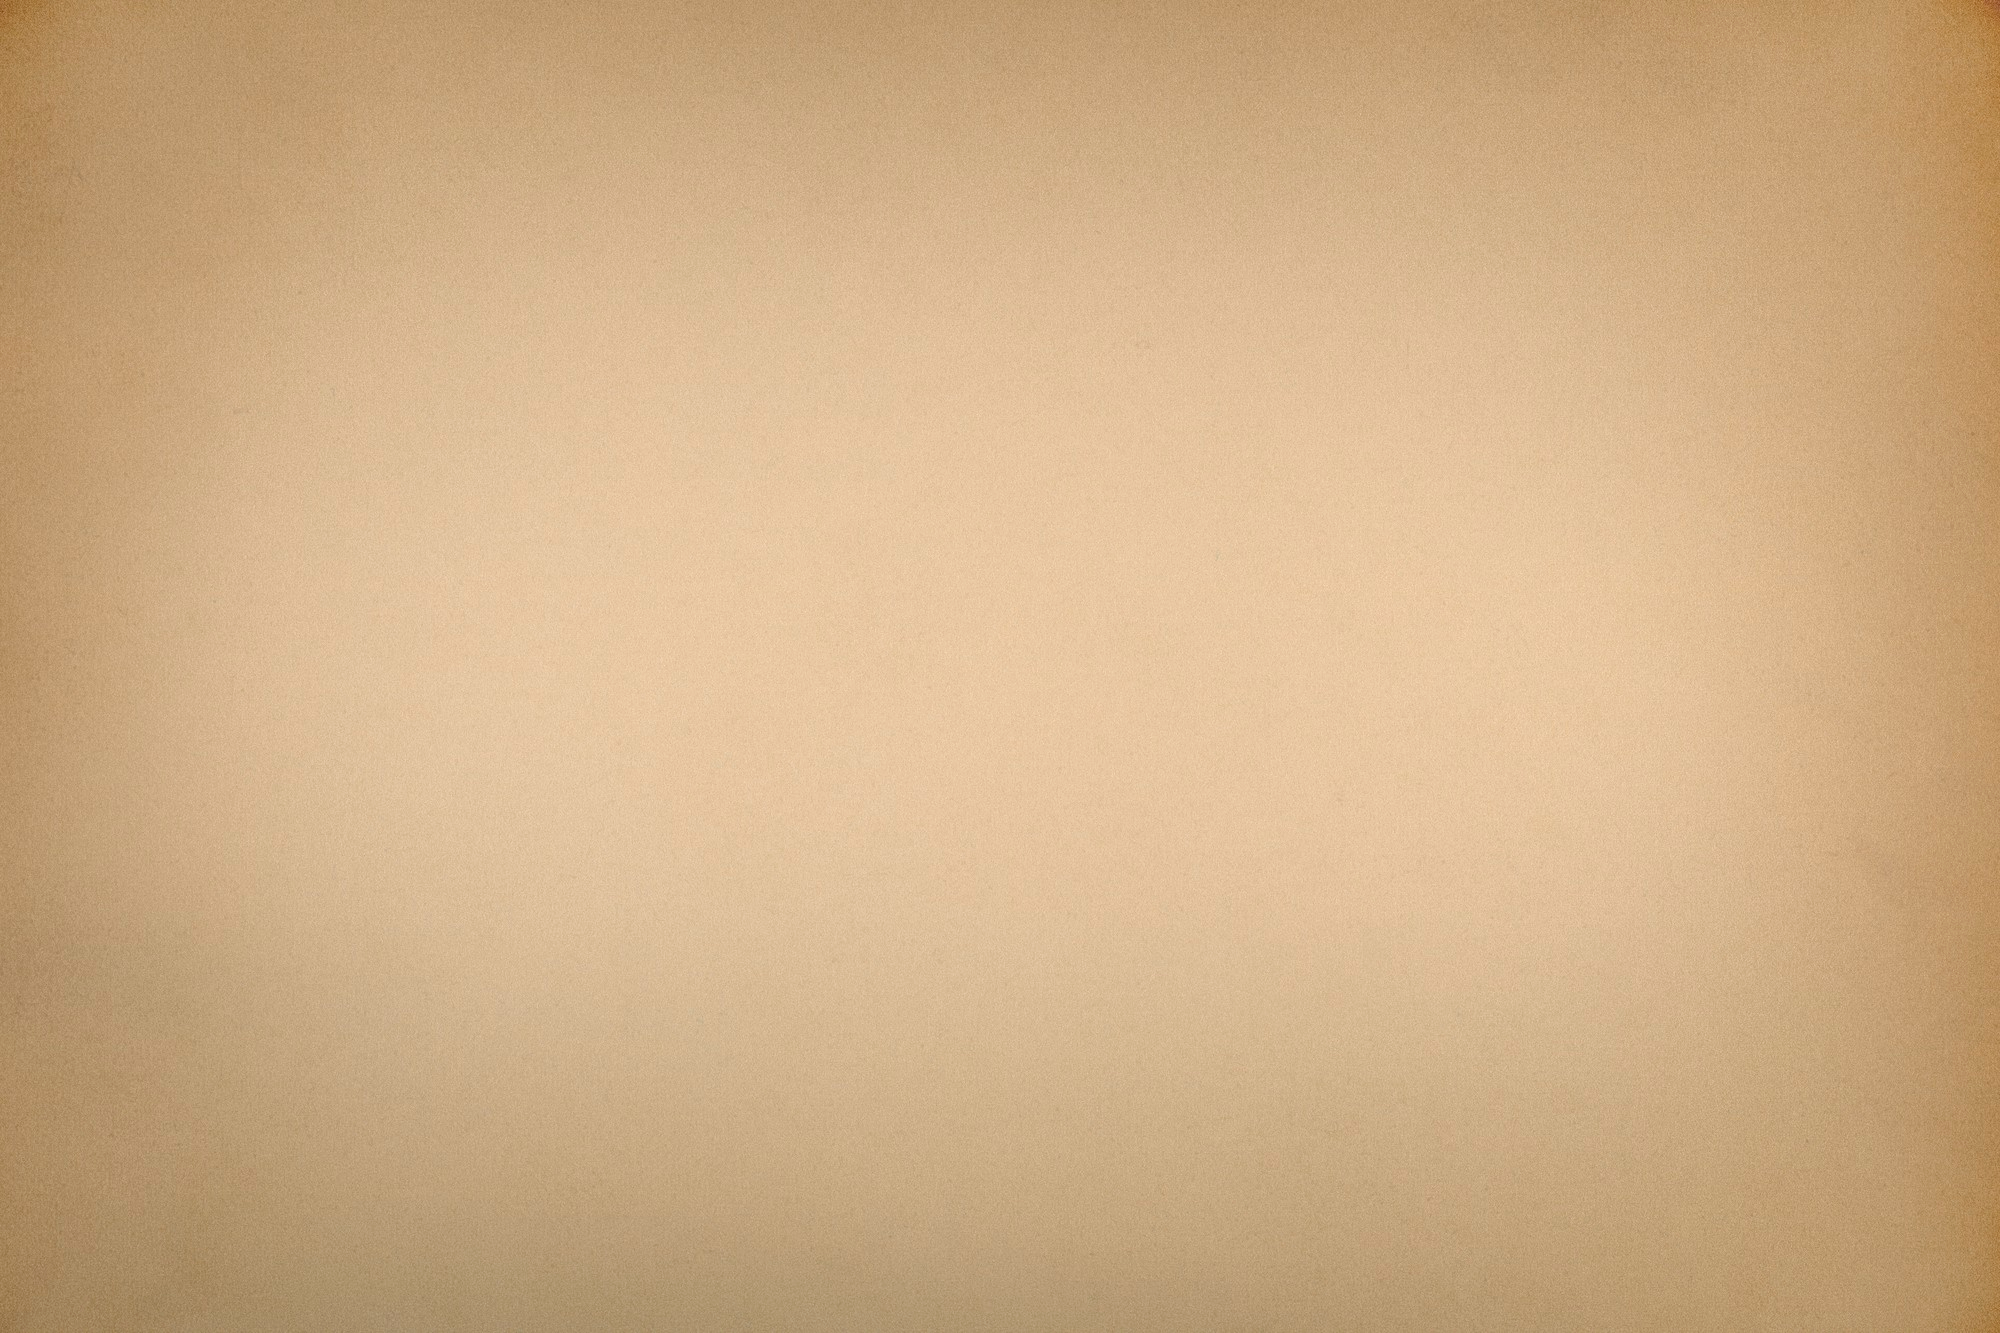
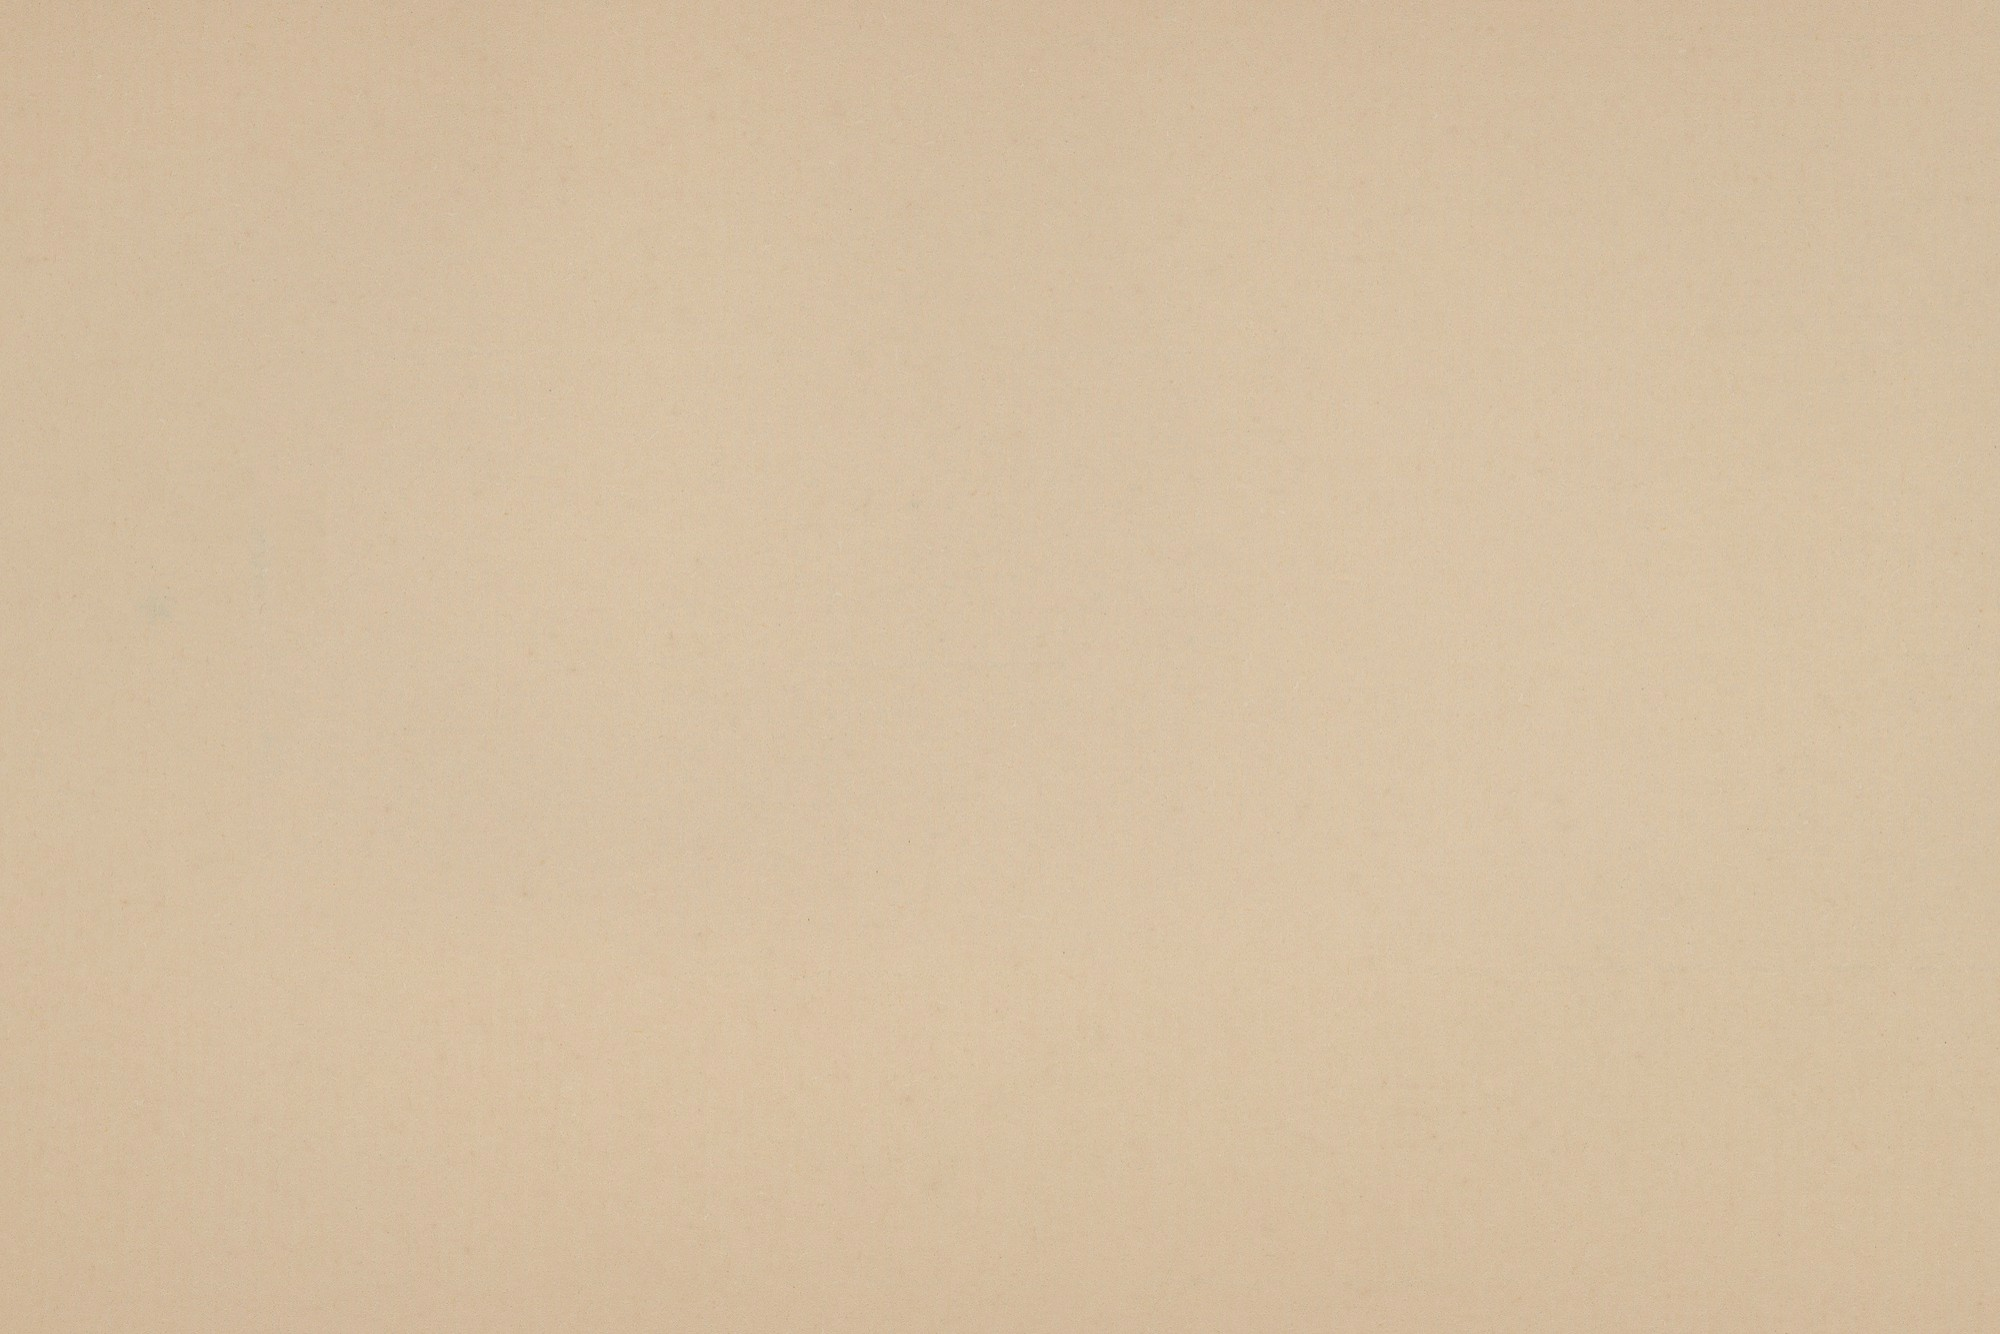
changing the image background for index and adding the menu html code to jobs

diff --git a/project1/index.html b/project1/index.html
@@ -17,7 +17,6 @@
 </head>
 <!-- body is declared as home so it is unique to this html page-->
 <body class="home">
-    <br>
     <!-- navigation menu with hyperlinks to the about, apply, index and job pages, along with the e-mail contact-->
 	<nav class="nav">
         <p class="menu"><a href="/project1/index.html" class="CustomLink">HOME</a></p> 
@@ -36,7 +35,7 @@
     <footer class="indexfooter">
     <!-- hyperlink to jira project -->
 		<a href="https://wtmjg01.atlassian.net/jira/software/projects/SCRUM/boards/1/timeline" target="_blank" >Jira Project Management</a>
-        <p></p>
+        <em>| &copy; LeafByte Tech, 2025.</em>
 	</footer>
 </body>
 </html>

diff --git a/project1/jobs.html b/project1/jobs.html
@@ -9,6 +9,13 @@
     <title>Job description</title>
 </head>
 <body>
+	<nav class="nav">
+        <p class="menu"><a href="/project1/index.html" class="CustomLink">HOME</a></p> 
+		<p class="menu"><a href="/project1/jobs.html" class="CustomLink">JOBS</a> </p> 
+		<p class="menu"><a href="/project1/apply.html" class="CustomLink">APPLY</a></p> 
+		<p class="menu"><a href="/project1/about.html" class="CustomLink">ABOUT</a></p> 
+		<p class="menu"><a href="mailto:info@LeafByteTech.com.au" class="CustomLink">CONTACT</a></p> 
+	</nav>
     <h1>Job description Page</h1>
     <section>
         <fieldset>

diff --git a/project1/styles/styles.css b/project1/styles/styles.css
@@ -24,6 +24,7 @@ nav a:hover {
 /* the navigation/menu bar*/
 .nav{
     display: flex; 
+    font-weight: bold; /*makes the text bold*/
     background-color: #8A6240; /*brown backgorund colour for the nav bar*/
     justify-content: space-evenly; /*spaces the items evenly*/
     font-size: 20px; /*font size is 17px*/
@@ -43,7 +44,7 @@ nav a:hover {
 }
 
 /*hyperlinks*/
-.CustomLink{
+.CustomLink, footer{
     color:#4d2d18; /*hyperlinks are set to brown*/
 }
 
